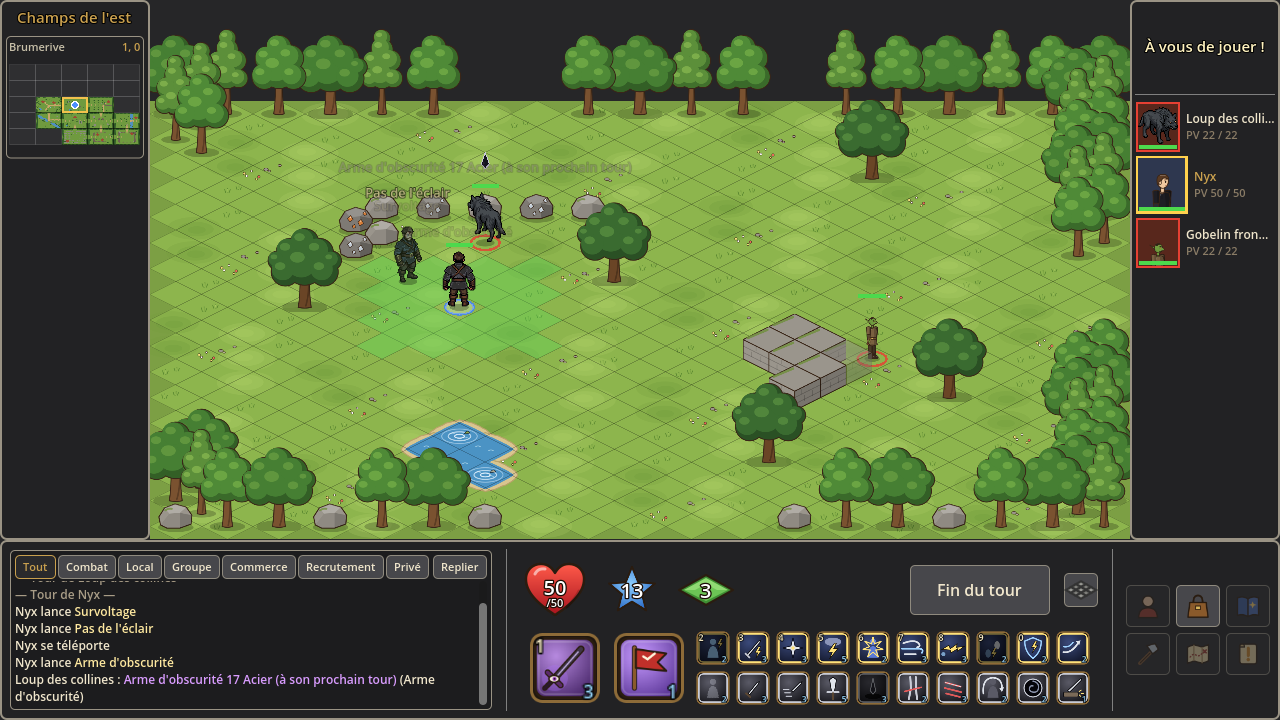
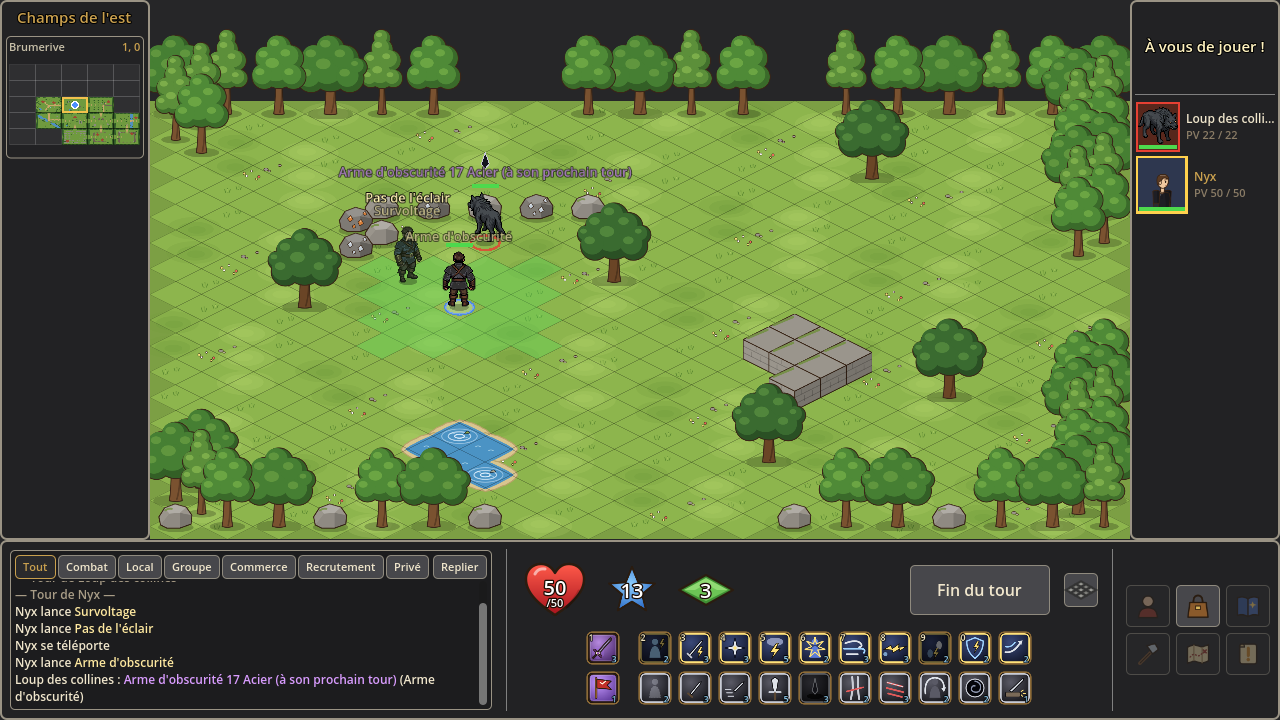
Barre de sorts : arme et sort de race à la taille des autres, l'un sur l'autre à gauche, un peu à l'écart
Claude-Session: https://claude.ai/code/session_01Jp475UgHSp8Q1GCwndDZhf

diff --git a/docs/GDD.md b/docs/GDD.md
@@ -3498,7 +3498,7 @@ préférence ce que les joueurs feront déjà d'eux-mêmes.
   ou pause) : thème de couleurs, volume, plein écran, taille de la fenêtre, mode tactique, pions en mode tactique ; gardées hors sauvegarde.
 
 - **Bandeau bas** (180 px) **:** historique (futur chat) à gauche, PV dans un cœur rouge qui se vide, PA dans une étoile bleue, PM
-  dans une case verte, barre de sorts en combat (icônes avec raccourci et coût en PA ; depuis le 20/11/2026, deux lignes d'au moins 10 sorts l'arme et le sort de race dans deux grandes cases à part à gauche), **barre
+  dans une case verte, barre de sorts en combat (icônes avec raccourci et coût en PA ; depuis le 20/11/2026, deux lignes d'au moins 10 sorts l'arme et le sort de race l'un sur l'autre à gauche, un peu à l'écart), **barre
   d'objets hors combat** (8 emplacements, pour les consommables : seulement montrée tant qu'il n'y
   en a pas ; ni objet ni équipement utilisable en combat), boutons de menus (inventaire,
   caractéristiques, sorts, quêtes, métiers, carte, amis, guilde). Le bandeau reste affiché en
